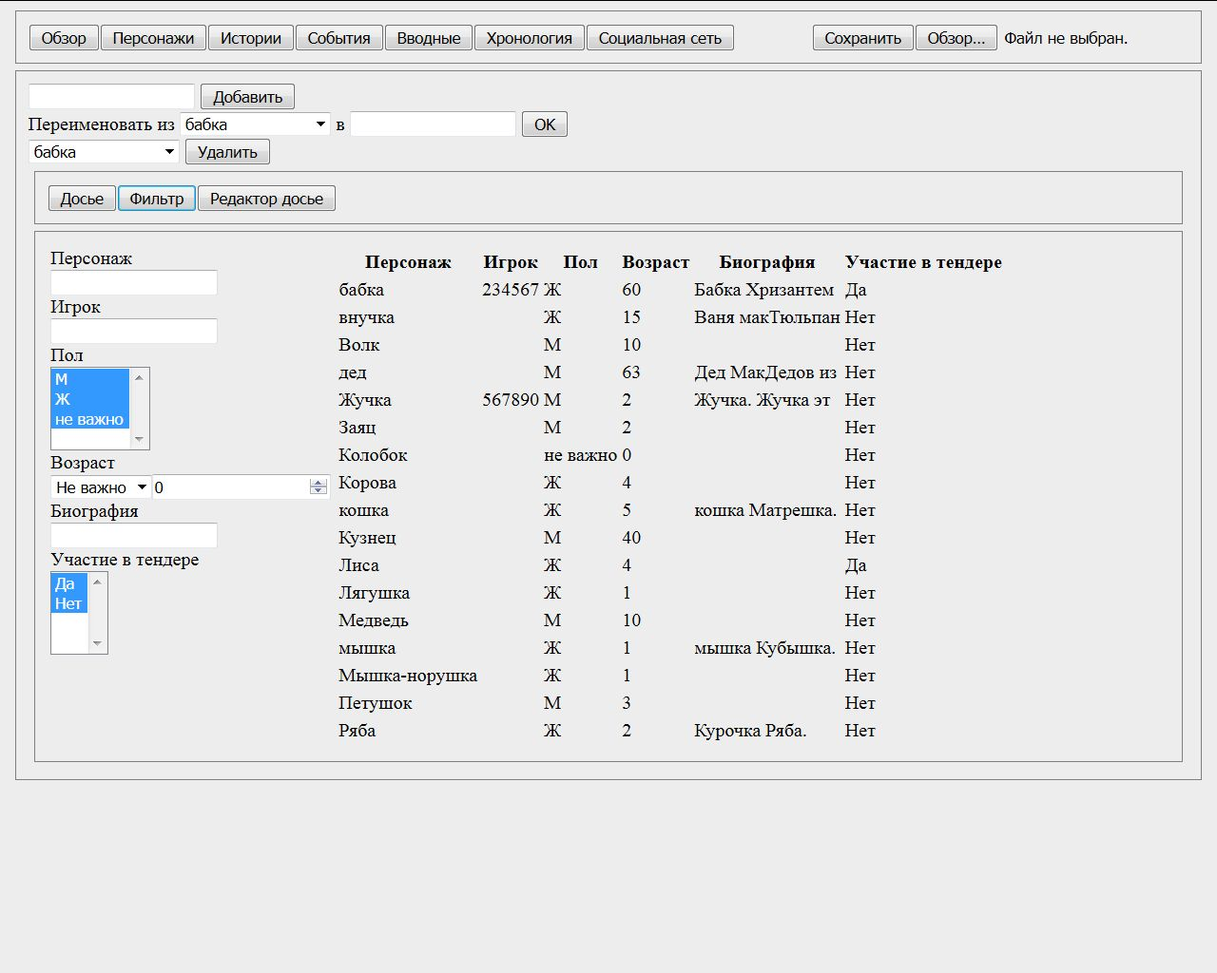
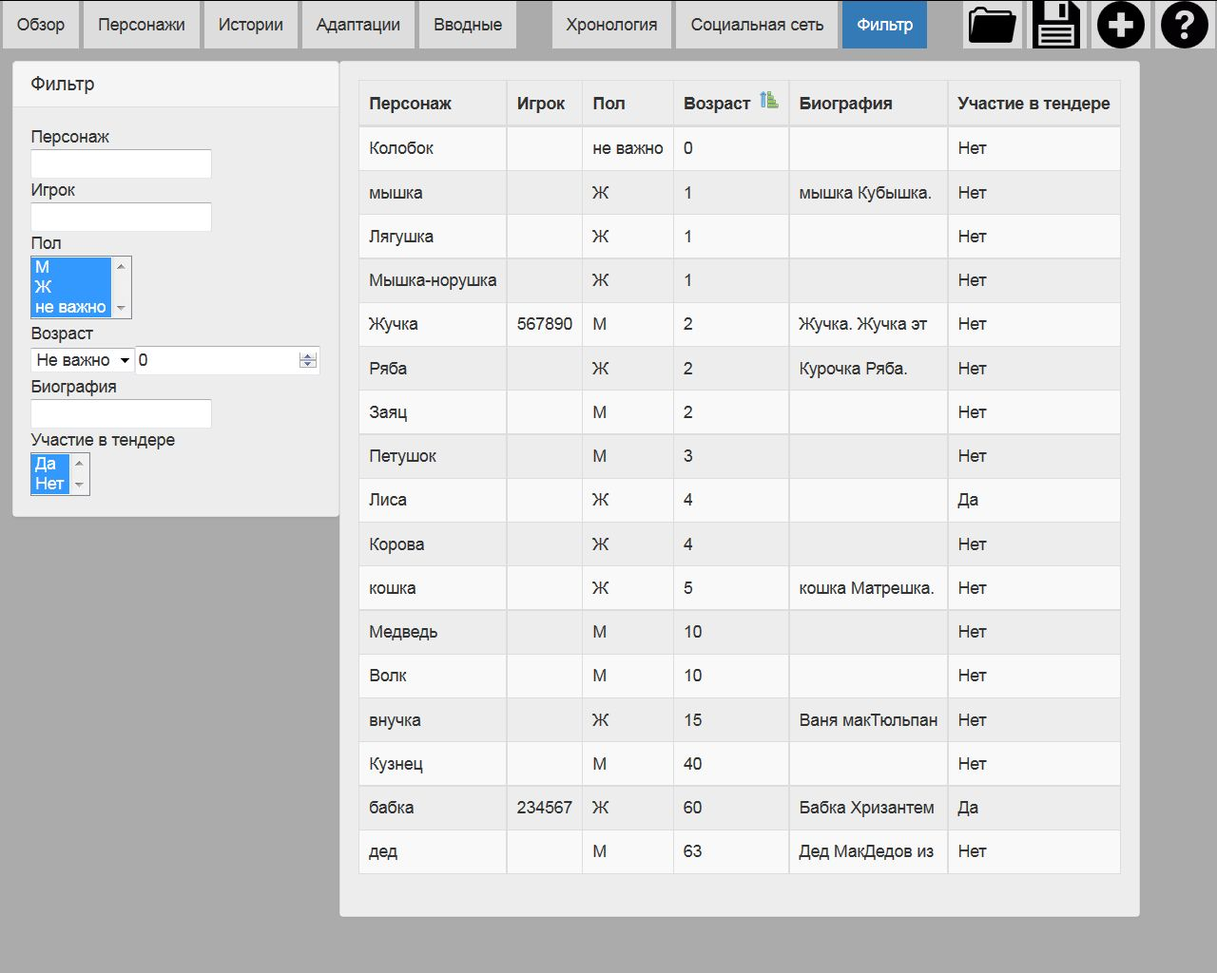
Updated pictures. Updated doc for recent UI changes.

diff --git a/conf.py b/conf.py
@@ -116,8 +116,8 @@ numfig = True
 # The theme to use for HTML and HTML Help pages.  See the documentation for
 # a list of builtin themes.
 # -- html_theme = 'alabaster'
-#html_theme = 'classic'
-html_theme = 'nature'
+html_theme = 'classic'
+#html_theme = 'nature'
 # -- html_theme = 'sphinx_rtd_theme'
 # -- html_theme = 'bizstyle'
 # -- html_theme = 'sphinxdoc'

diff --git a/pages.rst b/pages.rst
@@ -6,33 +6,37 @@
 Заголовок
 ---------
 
-В верху страницы находятся основная навигация и кнопки для работы с базой. 
+Вверху страницы находятся основная навигация и кнопки для работы с базой. 
 
-Вкладки и их назначение
+Основные вкладки 
 
-	Обзор - общая информация об игре и немного статистики.
+	**Обзор** - общая информация об игре и немного статистики.
 
-	Персонажи - управление персонажами и досье.
+	**Персонажи** - управление персонажами и досье.
 
-	Истории - заполнение историй: создание событий, перечень персонажей с указанием инвентаря и активности, ассоциация персонажей и событий
+	**Истории** - заполнение историй: создание событий, перечень персонажей с указанием инвентаря и активности, ассоциация персонажей и событий
 
-	События - детализация видения событий для каждого персонажа.
+	**Адаптации** - детализация видения событий для каждого персонажа.
+	
+	**Вводные** - предварительный просмотр и экспорт вводных.
+	
+Вкладки просмотра данных
 
-	Вводные - предварительный просмотр и экспорт вводных.
+	**Хронология** - просмотр хронологии событий, уточнение времени событий.
 
-	Хронология - просмотр хронологии событий, уточнение времени событий.
-
-	Социальная сеть - просмотр графа социальных взаимодействий.
+	**Социальная сеть** - просмотр графа социальных взаимодействий.
+	
+	**Фильтр** - поиск персонажей по досье.
 	
 Управление базой
 
-	Сохранить - сохранение базы в файл.
+	**Загрузить** - загрузка базы из файла.
+
+	**Сохранить** - сохранение базы в файл.
 	
-	Загрузить - загрузка базы из файла.
+	**Новая база** - создание новой базы.
 	
-	Новая база - создать новую базу.
-	
-	Об авторах - сведения о проекте: авторы и версия.
+	**Помощь** - открывает справку в новой вкладке.
 	
 .. figure:: images/0_header.jpg
 
@@ -47,13 +51,15 @@
 
 Содержание страницы
 
-	Название - здесь указывается название игры.
+	``Название`` - здесь указывается название игры.
 	
-	Игровая дата(дата конца доигровых событий)- дата начала игры в мире игры.
+	``Дата начала доигровых событий`` - дата начала доигровых событий. 
 	
-	Дата начала доигровых событий - дата начала доигровых событий. Между этими двумя датами будут происходить доигровые события. Эти даты необходимы для выставления границ хронологии. Можно выставлять даты событий и вне указанного временного промежутка. Введенные значения играют вспомогательную роль. Если у события не указано время, то оно по умолчанию заменяется игровой датой.
+	``Дата окончания доигровых событий`` - дата начала игры в мире игры. Между этими двумя датами будут происходить доигровые *события*. Эти даты необходимы для выставления границ хронологии. Можно выставлять даты событий и вне указанного временного промежутка. Введенные значения играют вспомогательную роль. Если у события не указано время, то оно по умолчанию заменяется игровой датой.
 		
-	Описание - текст с описанием игры. Ни на что не влияет, но мы решили, что он тут должен быть) При желании мастера могут вести тут какие-то общие заметки для себя.
+	``Описание`` - текст с описанием игры. Ни на что не влияет, но мы решили, что он тут должен быть) При желании мастера могут вести тут какие-то общие заметки для себя.
+	
+	``Статистика`` - здесь будут выводится общие данные об открытой базе: количество историй, количество персонажей и т.д.
 
 .. figure:: images/1_overview.jpg
 	
@@ -64,7 +70,7 @@
 Персонажи
 ---------
 
-На странице Персонажи есть общая часть и три дополнительных вкладки: досье, фильтр и редактор досье.
+На странице Персонажи есть общая часть и две дополнительных вкладки: досье и редактор досье.
 
 Общая часть включает в себя элементы для создания/переименование/удаления персонажей в верхней части вкладки.
 
@@ -83,35 +89,24 @@
 
 	Вкладка Персонажи. Досье
 
-.. _characters-filter:
-	
-Персонажи. Фильтр
------------------
-
-На вкладке Фильтр выполняется выборка из персонажей по досье. Подробнее про типы данных в досье можно прочитать в описании Редактора досье. Фильтрация строк и текстов происходит по наличию искомой строки в строке или тексте. Фильтрация по полям с единственным выбором происходит по выбору из предложенного списка значений. Чтобы сделать множественный выбор зажмите ctrl и выбирайте элементы в списке. Фильтрация для значений вида да/нет аналогична фильтрации по полям с единственным выбором. Фильтрация по числовым значениям требует указания числа и вида проверки: не важно, больше, равно, меньше. Обновление результата фильтрации происходит сразу после изменения параметров фильтра. В центральной части выводится результат фильтрации. Клик по заголовку в центральной части выполняет сортировку по соответствующему полю. 
-
-.. figure:: images/2_2_characterFilter.jpg
-
-	Вкладка Персонажи. Фильтр
-
 .. _characters-profile-editor:
 	
 Персонажи. Редактор досье
 -------------------------
 
-На вкладке Редактор досье выполняется редактирование досье персонажей: добавление/изменение/удаление полей в досье. В верхней части вкладки находятся элементы управления для создания полей, перестановки полей и удаления полей. Имена полей должны быть уникальны. Все текущие поля показаны в таблице: название, тип и значения. То, что указано в поле Значения является значением по умолчанию для всех полей, кроме перечисления. В перечислении значением по умолчанию является первый элемент.
+На вкладке Редактор досье выполняется редактирование досье персонажей: добавление/изменение/удаление полей в досье. В верхней части вкладки находятся элементы управления для создания полей, перестановки полей и удаления полей. Имена полей должны быть уникальны. Все текущие поля показаны в таблице: название, тип и значения. То, что указано в поле ``Значения`` является значением по умолчанию для всех полей, кроме единственного выбора. В единственном выборе значением по умолчанию является первый элемент.
 
 Типы полей:
 
-	Текст - поле для хранения текстовых данных. Пример: биография персонажа.
+	``Текст`` - поле для хранения текстовых данных. Пример: биография персонажа.
 
-	Строка - поле хранит одну строку. Пример: вероисповедание
+	``Строка`` - поле хранит одну строку. Пример: вероисповедание
 
-	Перечисление - поле содержащее перечисление значений из которых может быть выбрано только одно. Значения перечисления указываются через запятую. Первое значение является значением по умолчанию. Пример: пол ж, м, не важно
+	``Единственный выбор`` - поле содержащее перечисление значений из которых может быть выбрано только одно. Значения единственного выбора указываются через запятую. Первое значение является значением по умолчанию. Пример: пол ж, м, не важно
 
-	Число - числовое значение. Пример: возраст персонажа
+	``Число`` - числовое значение. Пример: возраст персонажа
 
-	Галочка - поле хранит значение да/нет.
+	``Галочка`` - поле хранит значение да/нет.
 
 .. figure:: images/2_3_characterPrfileConfigurer.jpg
 
@@ -122,11 +117,11 @@
 Истории
 -------
 
-На странице Истории осуществляется заполнение мастерских версий историй. В общую часть входят следующие элементы: создание/переименование/удаление историй, заполнение мастерской версии истории. Заполнять мастерскую версию не обязательно, но по нашему опыту бывает полезно иметь всю историю перед глазами.
+На странице Истории осуществляется заполнение мастерских версий историй. В общую часть входят следующие элементы: создание/переименование/удаление историй, заполнение мастерской версии истории. Заполнять мастерскую версию не обязательно, но по нашему опыту бывает полезно иметь всю историю перед глазами. Поле для мастерской истории прячется/показывается при нажатии на кнопку ``Мастерская история`` для экономии места для других вкладок. Во всех последующих рисунках мастерская история спрятана.
 
 В левой части экрана расположен элемент для выбора текущей истории.
 
-.. figure:: images/3_1_storyEvents.jpg
+.. figure:: images/3_0_masterStory.jpg
 
 	Вкладка Истории
 	
@@ -135,9 +130,9 @@
 Истории. События
 ----------------
 
-На вкладке события выполняется разбиение истории на события. У каждого события есть следующие атрибуты: название (не уникально), текст, позиция и время. Кроме обычных операций создания/удаления/перестановки событий добавлены операции клонирования и объединения событий. Клонирование создает полную копию события с созданием копии текстов адаптаций (см. раздел События). Объединение событий соединяет два подряд идущих события в одно. Объединяется все: название, описание и адаптации.
+На вкладке события выполняется разбиение истории на события. У каждого события есть следующие атрибуты: название (не уникально), текст, позиция и время. Кроме обычных операций создания/удаления/перестановки событий добавлены операции клонирования и объединения событий. Клонирование создает полную копию события с созданием копии текстов адаптаций (см. раздел :ref:`events-desc`). Объединение событий соединяет два подряд идущих события в одно. Объединяется все: название, описание и адаптации.
 
-В таблице события приведены в том порядке, в котором их укажет мастер, а не в хронологическом порядке. Переименование и обновление текста событий сохраняется при завершении редактирования, то есть немедленно. В правом столбце указано точное время наступления события. Если поле подсвечено красным, значит используется значение по умолчанию - время начала игры.
+В таблице события приведены в том порядке, в котором их укажет мастер, а не в хронологическом порядке. Переименование и обновление текста событий сохраняется при завершении редактирования, то есть немедленно. Справа указано точное время наступления события. Если поле подсвечено красным, значит используется значение по умолчанию - время окончания доигровых событий.
 
 .. figure:: images/3_1_storyEvents.jpg
 
@@ -150,9 +145,7 @@
 
 На вкладке Персонажи выполняется добавление/удаление/замещение персонажей в истории. При замещении все данные от старого персонажа переходят к новому. Так что да, Ромео не приехал, его место займет Меркуцио)
 
-Здесь же приведено две таблицы. Первая таблица указывает вид активности персонажа в истории. 
-
-воткнуть ссылку на теорию
+Здесь же приведено две таблицы. Первая таблица указывает вид активности персонажа в истории. Описание видов активности приведено в разделе :ref:`secondary-entities-desc`.
 
 .. figure:: images/3_2_storyCharacters.jpg
 
@@ -163,7 +156,7 @@
 Истории. Присутствие
 --------------------
 
-На этой вкладке определяется участие персонажей в тех или иных событиях. В таблице в первом столбце перечислены названия событий. В заголовке имена персонажей истории. Отметьте галочками пересечение персонажа и события, если персонаж принял в них участие. Снятие галочки приводит к удалению уже существующих адаптаций событий (см. раздел События). На всякий случай в этом месте всегда выскакивает напоминалка.
+На этой вкладке определяется участие персонажей в тех или иных событиях. В таблице в первом столбце перечислены названия событий. В заголовке имена персонажей истории. Отметьте галочками пересечение персонажа и события, если персонаж принял в них участие. Снятие галочки приводит к удалению уже существующих адаптаций событий (см. раздел :ref:`events-desc`). На всякий случай в этом месте всегда выскакивает напоминалка.
 
 .. figure:: images/3_3_eventPresence.jpg
 
@@ -171,7 +164,7 @@
 	
 .. _events-desc:
 
-События
+Адаптации
 -------
 
 У каждого персонажа может быть свое видение происходящих событий, поэтому для событий необходимо сделать адаптацию как это событие выглядело с точки зрения того или иного персонажа.
@@ -187,7 +180,7 @@
 Вводные. Предварительный просмотр
 ---------------------------------
 
-Прежде чем экспортировать вводные можно посмотреть какая информация будет выведена с помощью предварительного просмотра. При предварительном просмотре необходимо указать тип отображения событий: в хронологическом порядке или сгруппированными по историям. Под этим выбором находится селектор персонажа. Инвентарь и адаптации событий можно редактировать из режима предварительного просмотра. Обращаю ваше внимание - в заголовке события указывается ключевое поле История или Персонаж. Если это История, значит для персонажа не была написана адаптация текста события и он увидит его как есть. Редактирование такого поля является редактированием текста события. Если в заголовке указано Персонаж, значит вы редактируете адаптацию события.
+Прежде чем экспортировать вводные, можно посмотреть какая информация будет выведена, используя вкладку предварительного просмотра. При предварительном просмотре необходимо указать тип отображения событий: в хронологическом порядке или сгруппированными по историям. Под этим выбором находится селектор персонажа. Инвентарь и адаптации событий можно редактировать из режима предварительного просмотра. Обращаю ваше внимание - в заголовке события указывается ключевое поле ``История`` или ``Персонаж``. Если это ``История``, значит для персонажа не была написана адаптация текста события и он увидит его как есть. Редактирование такого поля является редактированием текста события. Если в заголовке указано ``Персонаж``, значит вы редактируете адаптацию события.
 
 .. figure:: images/5_1_briefingPreview.jpg
 
@@ -198,7 +191,9 @@
 Вводные. Экспорт
 ----------------
 
-На вкладке экспорта доступны следующие опции. Тип отображения событий: в хронологическом порядке или сгруппированными по историям. Можно вывести все вводные одним файлом или в отдельном файле для каждого персонажа. Во втором случае вводные будут выгружены в zip архиве. В текущий момент поддерживается два варианта выгрузки: текстовые файлы всех данных как есть и в формате docx. Для вывода в docx необходимо указать шаблон. Шаблон может включать в себя как все данные, так и только часть из них. Так же есть шаблон для выгрузки инвентаря.
+На вкладке экспорта доступны следующие опции. Вводные можно выводить одним файлом, либо каждую в отдельный файл. Во втором случае вводные будут выгружены в zip архиве. В разделе Простая выгрузка перечислены несколько встроенных шаблонов: ``выгрузка в docx c событиями по хронологии``, ``выгрузка в docx c событиями по историям``, ``выгрузка таблицы с инвентарем`` и ``выгрузка в текстовый файл``.
+
+В разделе продвинутой выгрузки необходимо указать тип используемого шаблона и загрузить свой собственный шаблон. Шаблон может включать в себя как все данные, так и только часть из них. Примеры шаблонов распространяются вместе с НИМС.
 
 .. figure:: images/5_2_briefingExport.jpg
 
@@ -220,11 +215,11 @@
 Социальная сеть
 ---------------
 
-На этой вкладке отрисовываются социальные сети на основе имеющихся данных. Поддерживаются несколько типов отрисовываемых сетей с разными видами узлов и связей между ними (см. типы графов). Отрисовка социальной сети требует большого количества ресурсов, поэтому перед ее использованием рекомендуется сохранить текущее состояние базы. Для отрисовки необходимо указать общие и частные параметры социальной сети и нажать кнопку *Нарисовать*.
+На этой вкладке отрисовываются социальные сети на основе имеющихся данных. Поддерживаются несколько типов отрисовываемых сетей с разными видами узлов и связей между ними (см. далее типы графов). Отрисовка социальной сети требует большого количества ресурсов, поэтому перед ее использованием рекомендуется сохранить текущее состояние базы. Для отрисовки необходимо указать общие и частные параметры социальной сети и нажать кнопку ``Нарисовать``.
 
 Общие параметры
 
-Раскраска узлов выполняется на основе полей досье типа перечисление и галочка. Вы можете выбрать любое из этих полей, а ниже будет приведена цветовая расшифровка.
+Раскраска узлов выполняется на основе полей досье c типом **единственный выбор** и **галочка**. Вы можете выбрать любое из этих полей, а ниже будет приведена цветовая расшифровка.
 Так же возможно три вида выборки.
 
 1. Все данные. Будут отрисованы все данные.
@@ -244,3 +239,16 @@
 .. figure:: images/7_socialNetwork.jpg
 
 	Вкладка Социальная сеть
+	
+.. _characters-filter:
+	
+Фильтр
+------
+
+На вкладке Фильтр выполняется выборка из персонажей по досье. Подробнее про типы данных в досье можно прочитать в разделе :ref:`characters-profile-editor`. Фильтрация строк и текстов происходит по наличию искомой строки в строке или тексте. Фильтрация по полям с единственным выбором происходит по выбору из предложенного списка значений. Чтобы сделать множественный выбор зажмите ctrl и выбирайте элементы в списке. Фильтрация для значений вида да/нет аналогична фильтрации по полям с единственным выбором. Фильтрация по числовым значениям требует указания числа и вида проверки: не важно, больше, равно, меньше. Обновление результата фильтрации происходит сразу после изменения параметров фильтра. В центральной части выводится результат фильтрации. Клик по заголовку таблицы выполняет сортировку по соответствующему полю + иконка. 
+
+.. figure:: images/2_2_characterFilter.jpg
+
+	Вкладка Фильтр
+	
+This is ``interpreted text``.

diff --git a/quickStart.rst b/quickStart.rst
@@ -2,14 +2,17 @@
 =============
 
 #. Скачайте НИМС здесь https://bitbucket.org/NtsDK/story-master-toolkit-smtk-nims/downloads или здесь http://trechkalov.com/ и распакуйте.
-#. Запустите НИМС - файл nims.html. В комплекте с НИМСом идет пробная база с русскими сказками. На ней проиллюстрированы все возможности НИМСа. Когда наиграетесь с ней открывайте чистую базу (см. раздел :ref:`header-desc`) и приступайте к созданию своей игры.
-#. Первой открывается страница :ref:`overview-desc`. На ней необходимо ввести название игры, дату начала доигровых событий и дату окончания доигровых событий и описание. Название и описание ни на что не влияет, а вот даты используются для привязки доигровых событий в хронологии. Работа с хронологией это одна из базовых функций НИМС, поэтому настоятельно рекомендуется использовать ее.
-#. На вкладке :ref:`characters-desc` создайте персонажей игры. Для этого необходимо ввести имя персонажа и нажать кнопку Добавить.
-#. На вкладке :ref:`story-desc` создайте историю. Для этого необходимо ввести название истории и нажать кнопку Добавить. Далее при желании заполняется мастерская история, но этот шаг можно пропустить и заполнять сразу события. 
+#. Запустите НИМС - файл nims.html. В комплекте с НИМСом идет пробная база с русскими сказками. На ней проиллюстрированы все возможности НИМСа. Когда наиграетесь с ней, создавайте чистую базу (см. раздел :ref:`header-desc`) и приступайте к созданию своей игры.
+#. Первой открывается страница :ref:`overview-desc`. На ней необходимо ввести название игры, дату начала доигровых событий, дату окончания доигровых событий и описание. Название и описание ни на что не влияют, а вот даты используются для привязки доигровых событий в хронологии. Работа с хронологией это одна из базовых функций НИМС, поэтому настоятельно рекомендуется использовать ее.
+#. На вкладке :ref:`characters-desc` создайте персонажей игры. Для этого необходимо ввести имя персонажа и нажать кнопку ``Добавить``.
+#. На вкладке :ref:`story-desc` создайте историю. Для этого необходимо ввести название истории и нажать кнопку ``Добавить``. Далее при желании заполняется мастерская история, но этот шаг можно пропустить и сразу перейти к заполнению событий. 
 #. Откройте подвкладку :ref:`story-events` для заполнения событий. Распишите события в истории. Минимальное содержание события - название и текст.
-#. По завершении работы с событиями необходимо указать персонажей, попавших в историю. Для этого откройте подвкладку :ref:`story-characters`. Выбираете нужного в списке доступных персонажей и нажимаете Добавить. Здесь же заполняется инвентарь и активность.
+#. По завершении работы с событиями необходимо указать персонажей, попавших в историю. Для этого откройте подвкладку :ref:`story-characters`. Выбираете нужного в списке из доступных персонажей и нажимаете ``Добавить``. Здесь же заполняется инвентарь и активность.
 #. Ассоциируйте события и персонажей на вкладке :ref:`story-presence` проставив галочки на нужных пересечениях.
+#. Продолжайте аналогично работать со следующими историями.
+
+
 #. Повторите пункты 5-8 для всех остальных историй.
 #. На данном этапе предполагается, что информация введена и можно переходить к написанию адаптаций на вкладке :ref:`events-desc`. Слева выбираете историю, затем персонажа (можно нескольких через ctrl). В центре появится таблица. В левом столбце оригинал истории. Справа тексты адаптаций. Можно заполнять) Заполнять адаптации необязательно. Если вы считаете, что история для всех персонжей выглядит одинаково, то адаптации можно не заполнять. Описания событий попадут в вводные как есть.
 #. На данном шаге вся основная информация заполнена и можно переходить к экспорту вводных. Для начала откройте вкладку :ref:`breifings-preview`. Выберете из списка любого персонажа, чтобы посмотреть какие данные будут выводиться во вводную. Информацию о событиях можно группировать по историям, либо по хронологии.
-#. Удостоверившись, что вводные готовы можно переходить к экспорту. Переходим на вкладку :ref:`breifings-export`. Можно экспортировать в шаблоне по умолчанию. Для этого нажмите кнопку "Экспорт в docx по времени" либо "Экспорт в docx по хронологии".
+#. Удостоверившись, что вводные готовы можно переходить к экспорту. Переходим на вкладку :ref:`breifings-export`. Можно экспортировать в шаблоне по умолчанию. Для этого нажмите кнопку ``Сформировать вводные, события сгруппированны по времени (docx)`` либо ``Сформировать вводные, события сгруппированны по историям (docx)``.

diff --git a/theory.rst b/theory.rst
@@ -28,6 +28,7 @@
 
 	...
 
+.. _secondary-entities-desc:
 
 Вторичные сущности
 ------------------
@@ -43,7 +44,7 @@
 .. note:: Пример
 
 	Можно указать в инвентаре бабки наличие скалки.
-
+	
 *Активность персонажа*. При работе над НИМС возник вопрос "А можем ли мы как-то интегрировать шестеренку ролей?". Как оказалось шестеренка это отдельная сущность и к имеющимся в НИМСе данным плохо применимая. Вместо этого мы реализовали другой инструмент - *отметки об активности*. У каждого персонажа можно указать тип активности персонажа в истории. Мы зафиксировали следующие виды активности:
 
 	#. Актив - персонаж играет в истории активную роль. Пример: Фродо, Дон Кихот

diff --git a/intro.rst b/intro.rst
@@ -28,7 +28,7 @@
 	
 Специальные обозначения
 
-	*курсив* - термины. Моноширинный шрифт - названия кнопок.
+	*курсив* - термины. ``Моноширинный шрифт`` - названия кнопок и элементов страниц.
 	
 Благодарности
 
